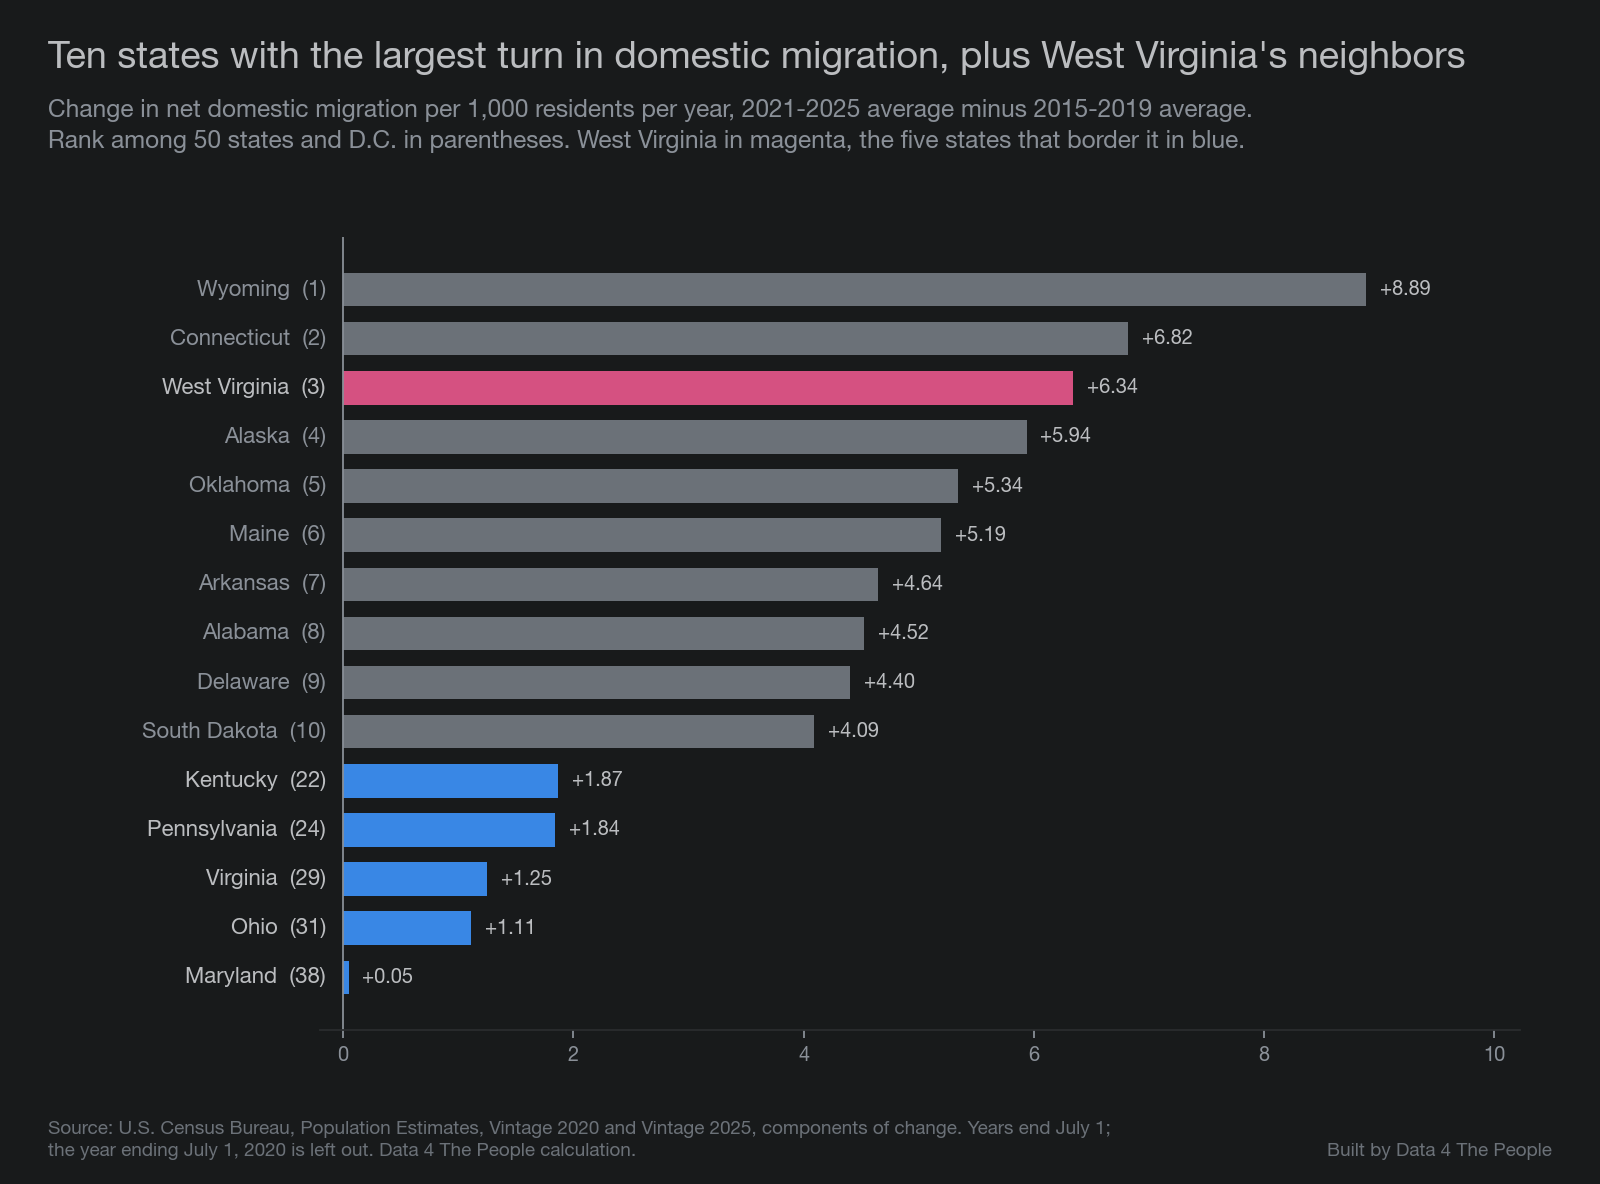
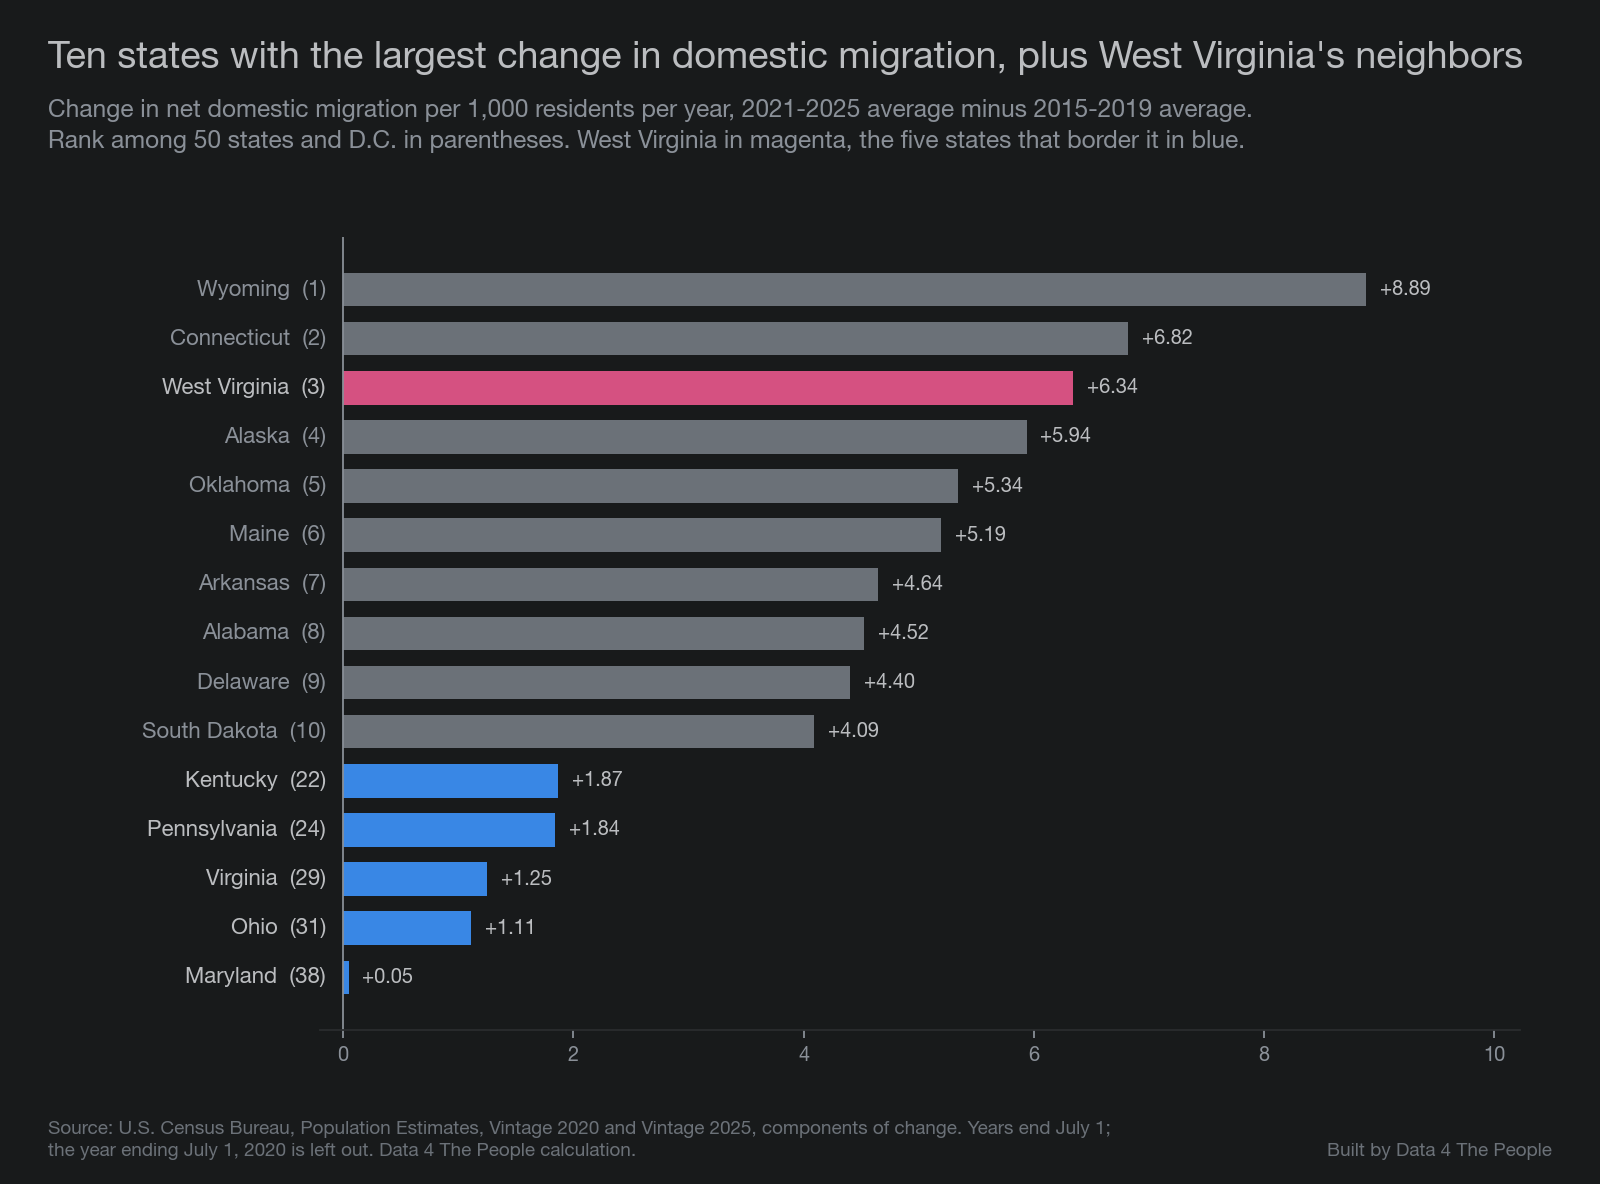
west-virginia-ascend: 2b round 2 brackets; edits 6 and 8 applied; chart 3 title says change

Changed region(s): [[0.3125, 0.0312, 0.9688, 0.0625]]

diff --git a/scripts/06_charts.py b/scripts/06_charts.py
@@ -84,7 +84,7 @@ def chart_state_change():
     ax.set_xlim(-0.2, max(rates[n][1] - rates[n][0] for n in show) * 1.15)
     ax.tick_params(axis="x", labelsize=9)
     ax.spines["left"].set_visible(False)
-    titleblock(fig, "Ten states with the largest turn in domestic migration, plus West Virginia's neighbors",
+    titleblock(fig, "Ten states with the largest change in domestic migration, plus West Virginia's neighbors",
                "Change in net domestic migration per 1,000 residents per year, 2021-2025 average minus "
                "2015-2019 average.\nRank among 50 states and D.C. in parentheses. West Virginia in magenta, "
                "the five states that border it in blue.")

diff --git a/posts/west-virginia-ascend/POST.md b/posts/west-virginia-ascend/POST.md
@@ -28,11 +28,11 @@ It’s called whale hunting.
 
 You go after the “whales” hoping to harpoon one that can bring in a bunch of revenue, or in this case, jobs. But, as we learned earlier this week, an economic development strategy that is based on whale hunting is a risky sport. It can end in grantees issuing mass layoffs, closing the funded site, going bankrupt, subject to lawsuits for nonperformance, or just never building the facility they signed up to build. In short, it’s a strategy rife with concentration risk. 
 
-For example, Ohio has made one huge bet on Intel, a package reported at about $2.1 billion. Ohio has already paid out at least $839.4 million of it, $125.4 million of that from JobsOhio. It turns out that whether this bet pays off or not rests on whether Intel can land “a significant external customer” for its new 14A chipmaking process. If it can't, it, in its own words, “would likely discontinue the new leading-edge fabrication facilities we are building in Ohio.” The project is not off to a good start. It has already been delayed from 2025 to 2030 or 2031, and now we are left to wait and see whether Intel can find customers for its 14A process in a fast-changing chip market where, by Intel's own account, AI spending is driving demand.
+For example, Ohio has made one huge bet on Intel, a package reported at about $2.1 billion. Ohio has already paid out at least $839.4 million of it, $125.4 million of that from JobsOhio. It turns out that whether this bet pays off or not rests on whether Intel can land “a significant external customer” for its new 14A chipmaking process. If it can't, it, [in its own words](https://www.sec.gov/Archives/edgar/data/50863/000005086326000011/intc-20251227.htm), “would likely discontinue the new leading-edge fabrication facilities we are building in Ohio.” The project is not off to a good start. It has already been delayed from 2025 to 2030 or 2031, and now we are left to wait and see whether Intel can find customers for its 14A process in a fast-changing chip market where, by Intel's own account, AI spending - which is now much more uncertain after the mid-term election - is driving demand.
 
 Anyway, that’s one way to do it.
 
-But there is an entire spectrum of other ways to approach economic development. Today’s post is about one of the most interesting ones we have come across, which just happens to be going on right next door to Ohio. It’s called the Ascend program, and we are focusing on it today because West Virginia's approach to economic development is about as different from JobsOhio as a program could be. Instead of trying to hunt whales, Ascend is going after individuals. It provides an incentive directly to a worker to relocate to West Virginia, and bring their very healthy income to the community to which they move. It’s the other economic development bookend sitting on the opposite side of the bookshelf. The yin to Ohio’s yang. That alone made it fascinating to us, and set us off on our exploration of the program. Here is what we found.
+But there is an entire spectrum of other ways to approach economic development. Today’s post is about one of the most interesting ones we have come across, which just happens to be going on right next door to Ohio. It’s called the Ascend program, and we are focusing on it today because West Virginia's approach to economic development is about as different from JobsOhio as a program could be. Instead of trying to hunt whales, Ascend is going after individual workers. It provides an incentive directly to a worker to relocate to West Virginia, and bring their very healthy income to the community to which they move. It’s the other economic development bookend sitting on the opposite side of the bookshelf. The yin to Ohio’s yang. That alone made it fascinating to us, and set us off on our exploration of the program. Here is what we found.
 
 ## What Ascend is, in its own words
 ::: spacer 5px
@@ -66,7 +66,7 @@ We were curious if we could measure the impact that Ascend had on migration into
 ![Bar chart of West Virginia's net domestic migration for years ending July 2011 to July 2025. Bars are negative every year from 2013 through 2020, lowest at minus 10,139 in 2017, then positive every year from 2021, reaching plus 6,408 in 2025. A line marks Ascend WV's first class.](images/01-wv-net-domestic-migration.png)
 *Source: U.S. Census Bureau, Population Estimates, Vintage 2020 and Vintage 2025.*
 
-That turn dramatically outperformed all five of West Virginia's neighbors. Per resident, West Virginia went from losing people to other states faster than any of them in 2015-2019 to gaining people faster than any of them in 2021-2025. Its change, 6.34 more people per 1,000 residents a year, ranks third among the 50 states and D.C. The closest neighbor, Kentucky, ranks 22nd at 1.87. Ohio ranks 31st. The next chart shows the 10 states with the largest turn, plus the five states that border West Virginia, in blue.
+That turn dramatically outperformed all five of West Virginia's neighbors. Per resident, West Virginia went from losing people to other states faster than any of them in 2015-2019 to gaining people faster than any of them in 2021-2025. Its change, 6.34 more people per 1,000 residents a year, ranks third among the 50 states and D.C. The closest neighbor, Kentucky, ranks 22nd at 1.87. Ohio ranks 31st. The next chart shows the 10 states with the largest change, plus the five states that border West Virginia, in blue.
 
 ![Bar chart of the change in net domestic migration per 1,000 residents per year, 2021-2025 average minus 2015-2019 average, for the 10 states with the largest change plus West Virginia's five neighbors. Wyoming leads at 8.89, then Connecticut at 6.82 and West Virginia, in magenta, at 6.34. The neighbors, in blue, rank far lower: Kentucky 1.87 (22nd), Pennsylvania 1.84 (24th), Virginia 1.25 (29th), Ohio 1.11 (31st) and Maryland 0.05 (38th).](images/03-state-migration-turn.png)
 *Source: U.S. Census Bureau, Population Estimates, Vintage 2020 and Vintage 2025. Data 4 The People calculation.*
@@ -80,7 +80,7 @@ The Panhandle was already gaining people before Ascend arrived. The next chart c
 
 All three groups gained ground. The Eastern Panhandle went from 9.99 to 20.57 per 1,000 residents a year. The other Ascend areas went from -7.08 to -1.37, and the rest of the state went from -5.60 to -0.20.
 
-## The great exodus from Go-Go City
+## Leaving the Washington area
 ::: spacer 5px
 
 So who moved to the Panhandle? IRS tax records, which track households that change address between one year's tax return and the next, point to a broader shift out of the Washington, D.C. area. In the three filing years before COVID, about 2,239 people a year moved from the Washington metro to Jefferson, Berkeley and Morgan counties. In the three filing years after it began, that rose to about 2,971 a year, a 32.7% increase. Moves the other way fell 6.5%. The Panhandle's net gain from the Washington metro rose 61.2%, from about 1,297 people a year to 2,091. Arrivals from everywhere in the U.S. rose 11.8%, so the Washington area's share of new arrivals grew from 23.4% to 27.7%. The chart below shows moves in each direction.
@@ -90,7 +90,7 @@ So who moved to the Panhandle? IRS tax records, which track households that chan
 
 The timing lines up with the pandemic, but tax records do not say why people moved. The IRS also lists only county pairs with at least 20 returns a year, so these counts run low.
 
-## Ascend aided migration, but the Washington area seems to be the main driver
+## Ascend is small next to the move from the Washington area
 ::: spacer 5px
 
 Alas, this means that migration from the Washington area to the panhandle is the primary driver of West Virginia's leading in-migration data.
